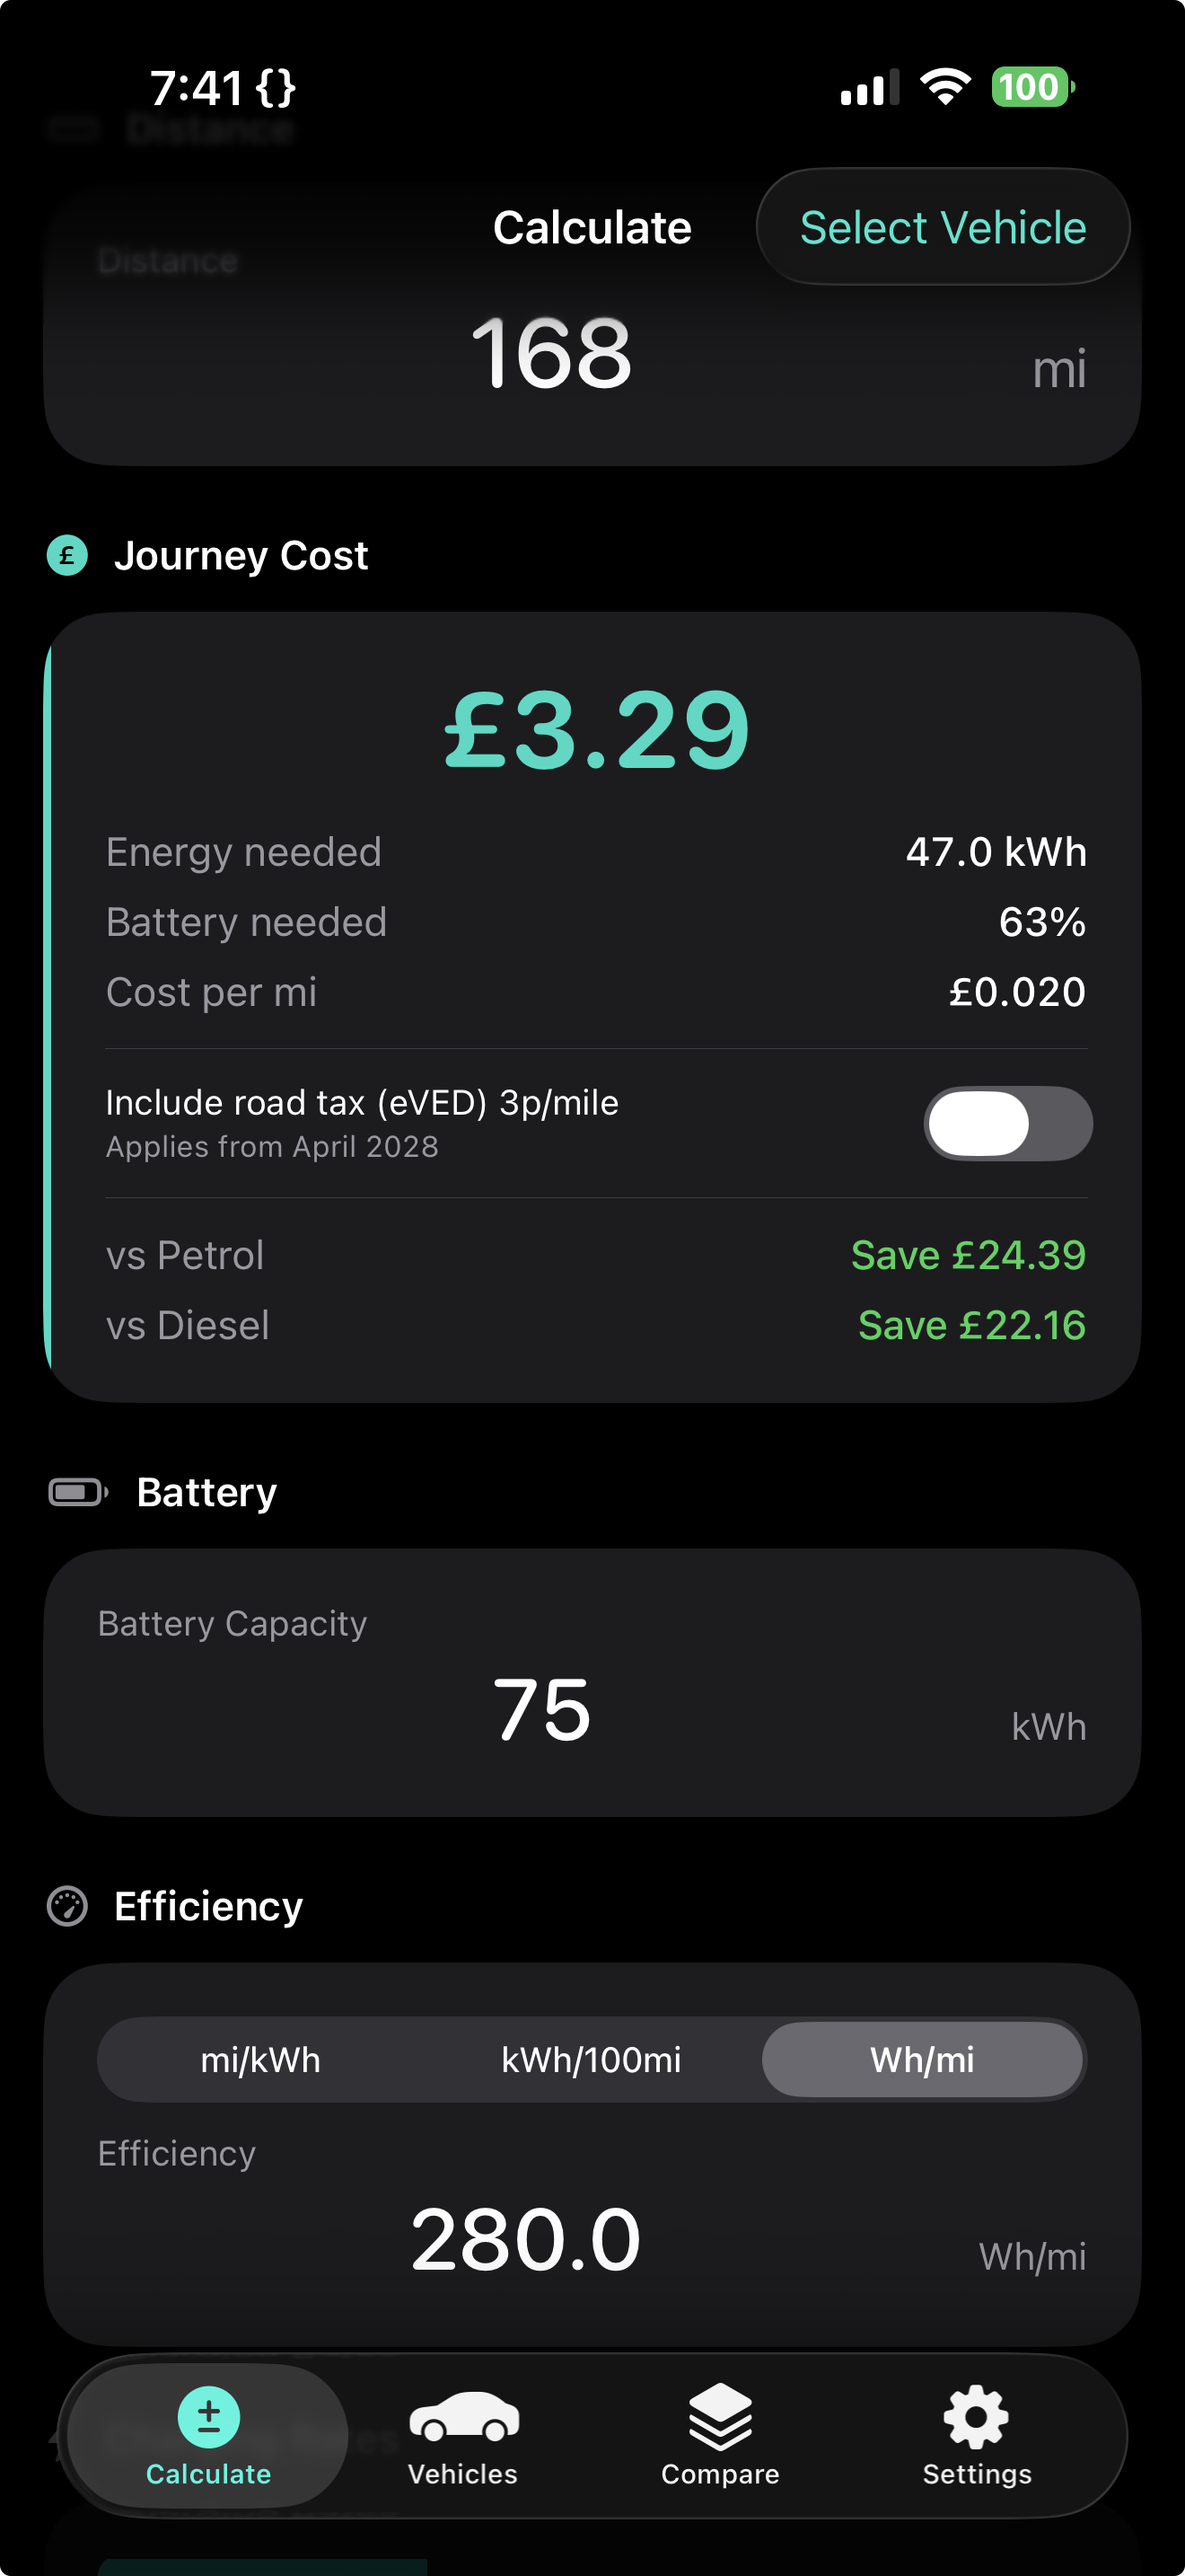
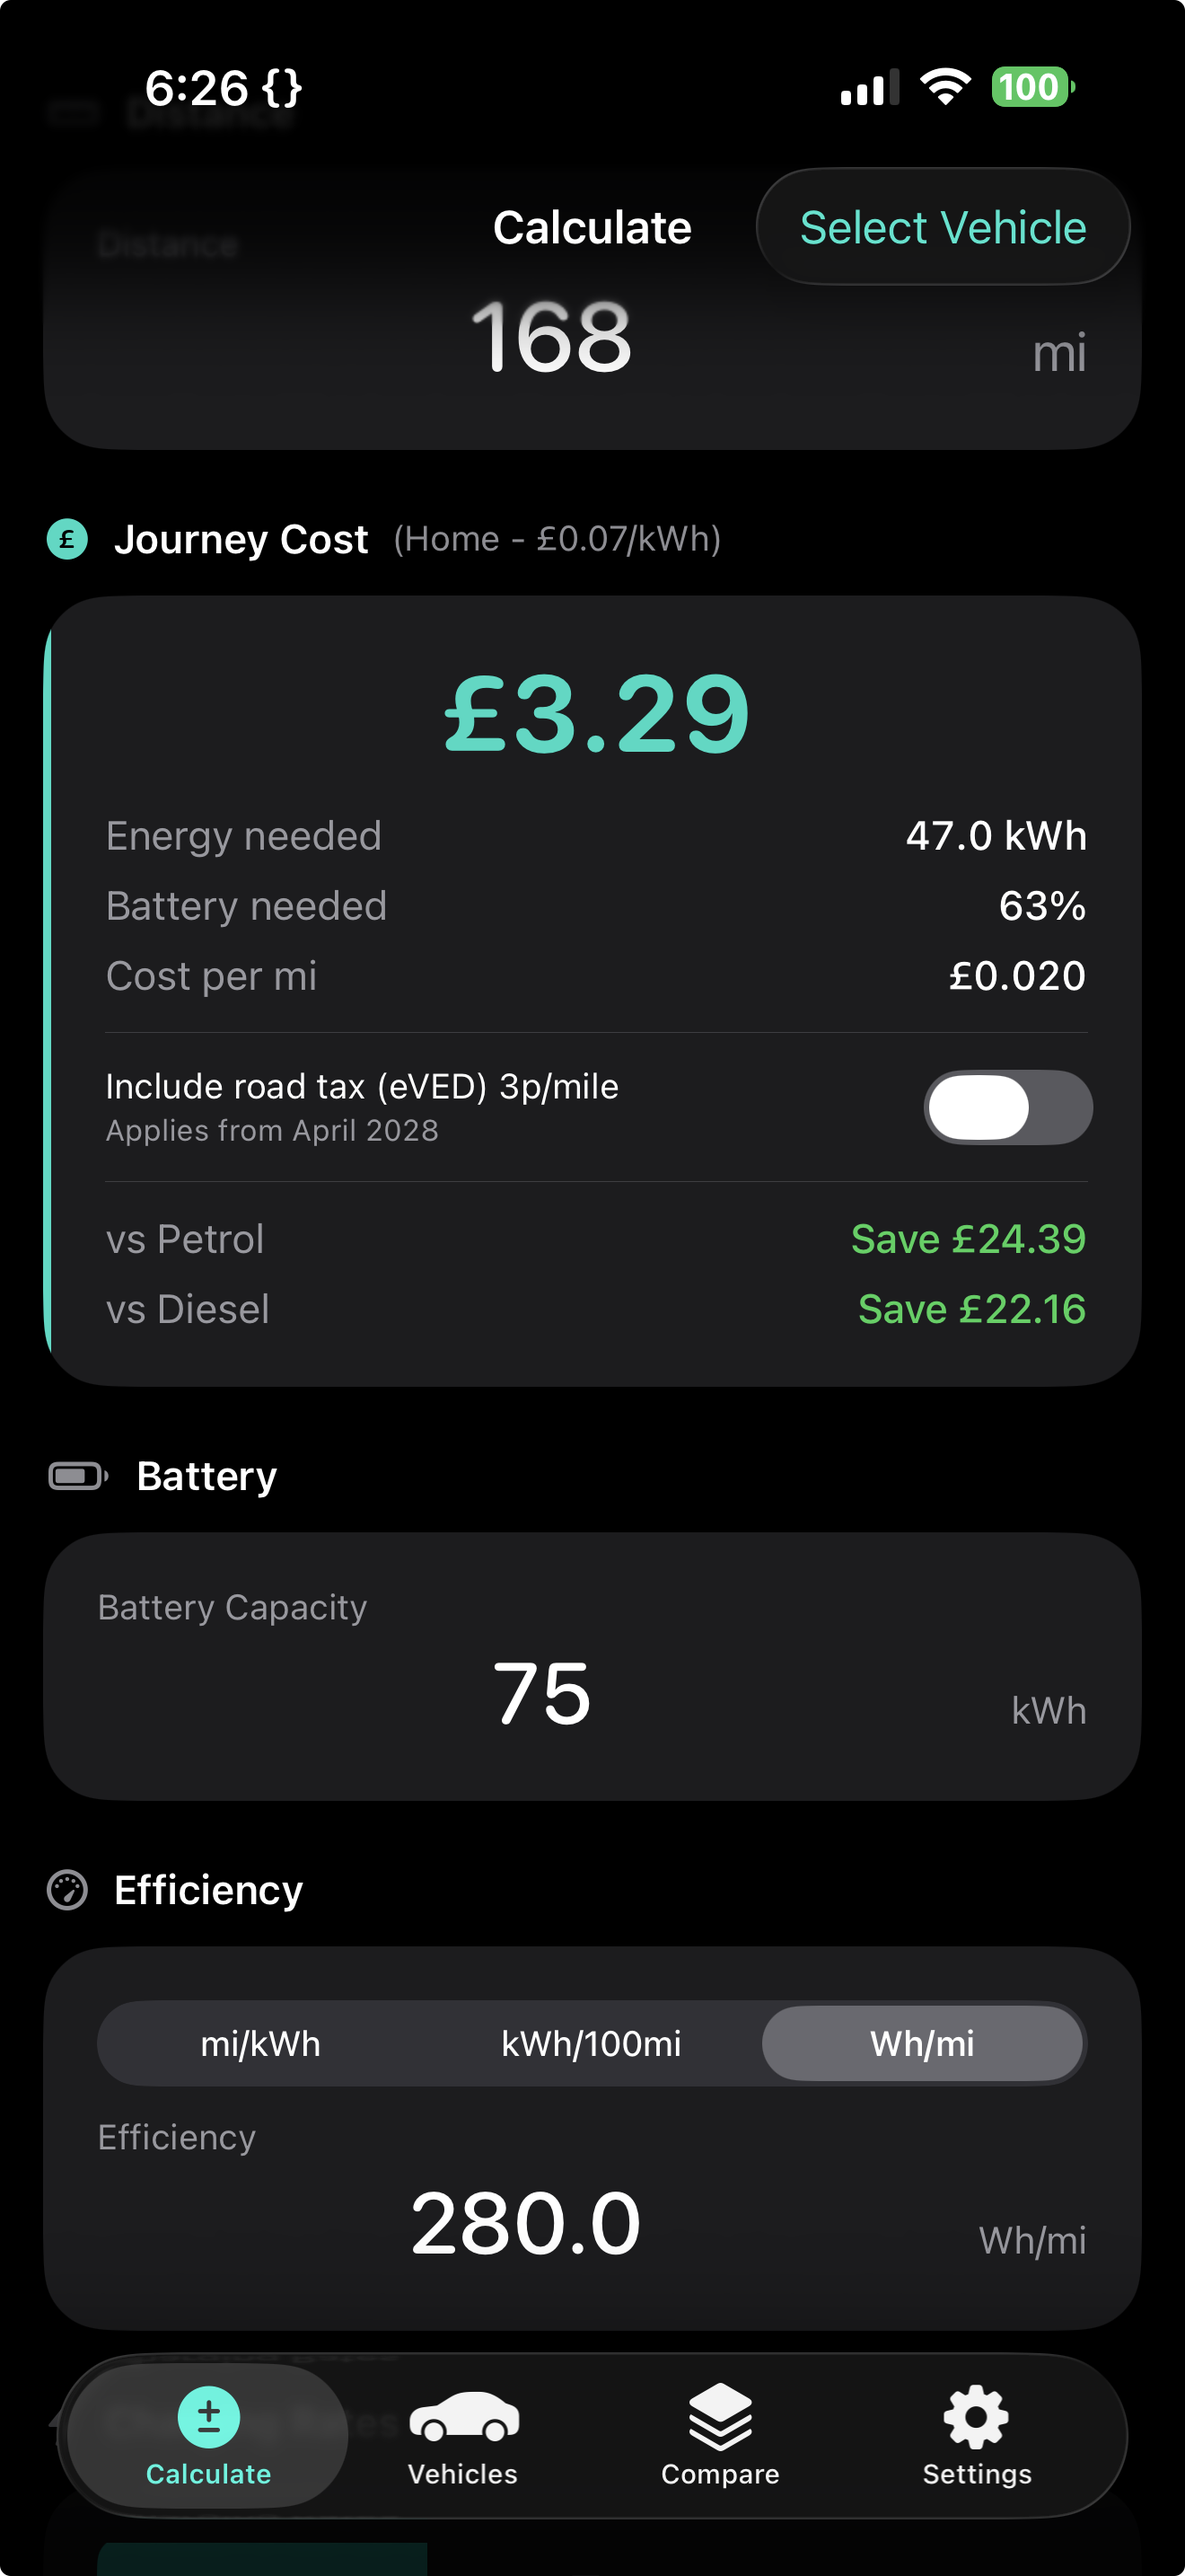
updated a few screenshots

diff --git a/index.html b/index.html
@@ -44,10 +44,18 @@
         "mainEntity": [
             {
                 "@type": "Question",
-                "name": "How do I calculate EV running costs?",
+                "name": "Can I compare different electric vehicles?",
                 "acceptedAnswer": {
                     "@type": "Answer",
-                    "text": "EVKit calculates your real running costs by combining your vehicle's efficiency (miles per kWh), your actual electricity rates for home, work, and public charging, and factors in seasonal efficiency loss from cold weather. Simply enter the distance you want to travel, and EVKit shows you exactly what it will cost at each charging location."
+                    "text": "Yes! EVKit lets you compare two vehicles side-by-side, showing differences in journey costs, battery health projections, winter performance, and more. Export unlimited comparisons as professional PDFs to share with family, friends, or your local EV community."
+                }
+            },
+            {
+                "@type": "Question",
+                "name": "How are EV journey costs calculated?",
+                "acceptedAnswer": {
+                    "@type": "Answer",
+                    "text": "EVKit calculates your real journey costs by combining your vehicle's efficiency (miles per kWh), your actual electricity rates for home, work, and public charging, and factors in seasonal efficiency loss from cold weather. Simply enter the distance you want to travel, and EVKit shows you exactly what it will cost at each charging location."
                 }
             },
             {
@@ -72,14 +80,6 @@
                 "acceptedAnswer": {
                     "@type": "Answer",
                     "text": "Battery degradation varies by chemistry. LFP batteries retain about 93% capacity after 5 years, while NMC and NCA batteries retain around 87-88%. EVKit models degradation year-by-year based on real-world studies, showing you projected range and costs over your ownership period. All research sources are linked directly within the app if you want to dive deeper."
-                }
-            },
-            {
-                "@type": "Question",
-                "name": "Can I compare different electric vehicles?",
-                "acceptedAnswer": {
-                    "@type": "Answer",
-                    "text": "Yes! EVKit lets you compare two vehicles side-by-side, showing differences in journey costs, battery health projections, winter performance, and more. Export unlimited comparisons as professional PDFs to share with family, friends, or your local EV community."
                 }
             }
         ]
@@ -188,14 +188,7 @@
                         <div class="watch-crown"></div>
                         <div class="watch-button"></div>
                         <div class="watch-screen">
-                            <div class="screen-placeholder screen-placeholder-watch">
-                                <span class="placeholder-icon-small">
-                                    <svg viewBox="0 0 24 24" fill="none" stroke="currentColor" stroke-width="1.5">
-                                        <path d="M13 2L3 14h9l-1 8 10-12h-9l1-8z"/>
-                                    </svg>
-                                </span>
-                                <span class="placeholder-text-small">£0.12/mi</span>
-                            </div>
+                            <img src="assets/watch-1.png" alt="EVKit complication on Apple Watch face" class="watch-screenshot">
                         </div>
                     </div>
                 </div>
@@ -668,13 +661,25 @@
                 <div class="faq-list">
                     <details class="faq-item">
                         <summary class="faq-question">
-                            <span>How do I calculate EV running costs?</span>
+                            <span>Can I compare different electric vehicles?</span>
                             <svg class="faq-icon" viewBox="0 0 24 24" fill="none" stroke="currentColor" stroke-width="2">
                                 <path d="M6 9l6 6 6-6"/>
                             </svg>
                         </summary>
                         <div class="faq-answer">
-                            <p>EVKit calculates your real running costs by combining your vehicle's efficiency (miles per kWh), your actual electricity rates for home, work, and public charging, and factors in seasonal efficiency loss from cold weather. Simply enter the distance you want to travel, and EVKit shows you exactly what it will cost at each charging location.</p>
+                            <p>Yes! EVKit lets you compare two vehicles side-by-side, showing differences in journey costs, battery health projections, winter performance, and more. Export unlimited comparisons as professional PDFs to share with family, friends, or your local EV community.</p>
+                        </div>
+                    </details>
+
+                    <details class="faq-item">
+                        <summary class="faq-question">
+                            <span>How are EV journey costs calculated?</span>
+                            <svg class="faq-icon" viewBox="0 0 24 24" fill="none" stroke="currentColor" stroke-width="2">
+                                <path d="M6 9l6 6 6-6"/>
+                            </svg>
+                        </summary>
+                        <div class="faq-answer">
+                            <p>EVKit calculates your real journey costs by combining your vehicle's efficiency (miles per kWh), your actual electricity rates for home, work, and public charging, and factors in seasonal efficiency loss from cold weather. Simply enter the distance you want to travel, and EVKit shows you exactly what it will cost at each charging location.</p>
                         </div>
                     </details>
 
@@ -711,18 +716,6 @@
                         </summary>
                         <div class="faq-answer">
                             <p>Battery degradation varies by chemistry. LFP batteries retain about 93% capacity after 5 years, while NMC and NCA batteries retain around 87-88%. EVKit models degradation year-by-year based on real-world studies, showing you projected range and costs over your ownership period. All research sources are linked directly within the app if you want to dive deeper.</p>
-                        </div>
-                    </details>
-
-                    <details class="faq-item">
-                        <summary class="faq-question">
-                            <span>Can I compare different electric vehicles?</span>
-                            <svg class="faq-icon" viewBox="0 0 24 24" fill="none" stroke="currentColor" stroke-width="2">
-                                <path d="M6 9l6 6 6-6"/>
-                            </svg>
-                        </summary>
-                        <div class="faq-answer">
-                            <p>Yes! EVKit lets you compare two vehicles side-by-side, showing differences in journey costs, battery health projections, winter performance, and more. Export unlimited comparisons as professional PDFs to share with family, friends, or your local EV community.</p>
                         </div>
                     </details>
                 </div>
